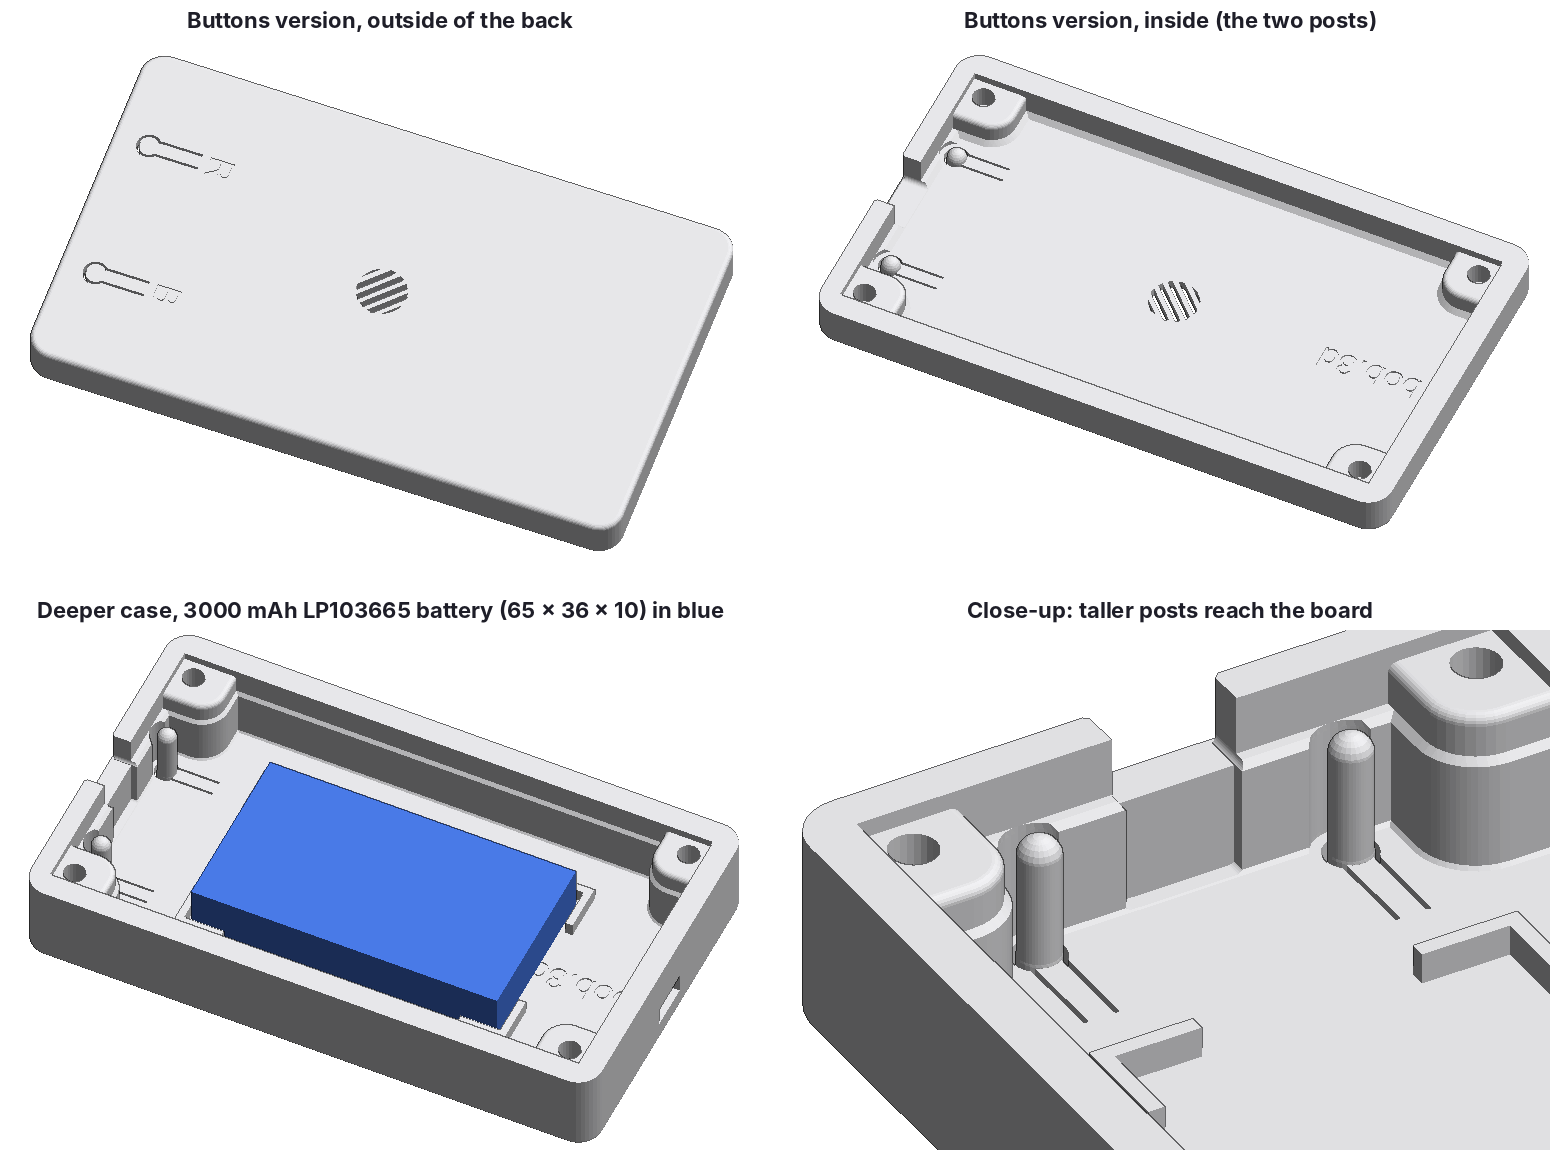
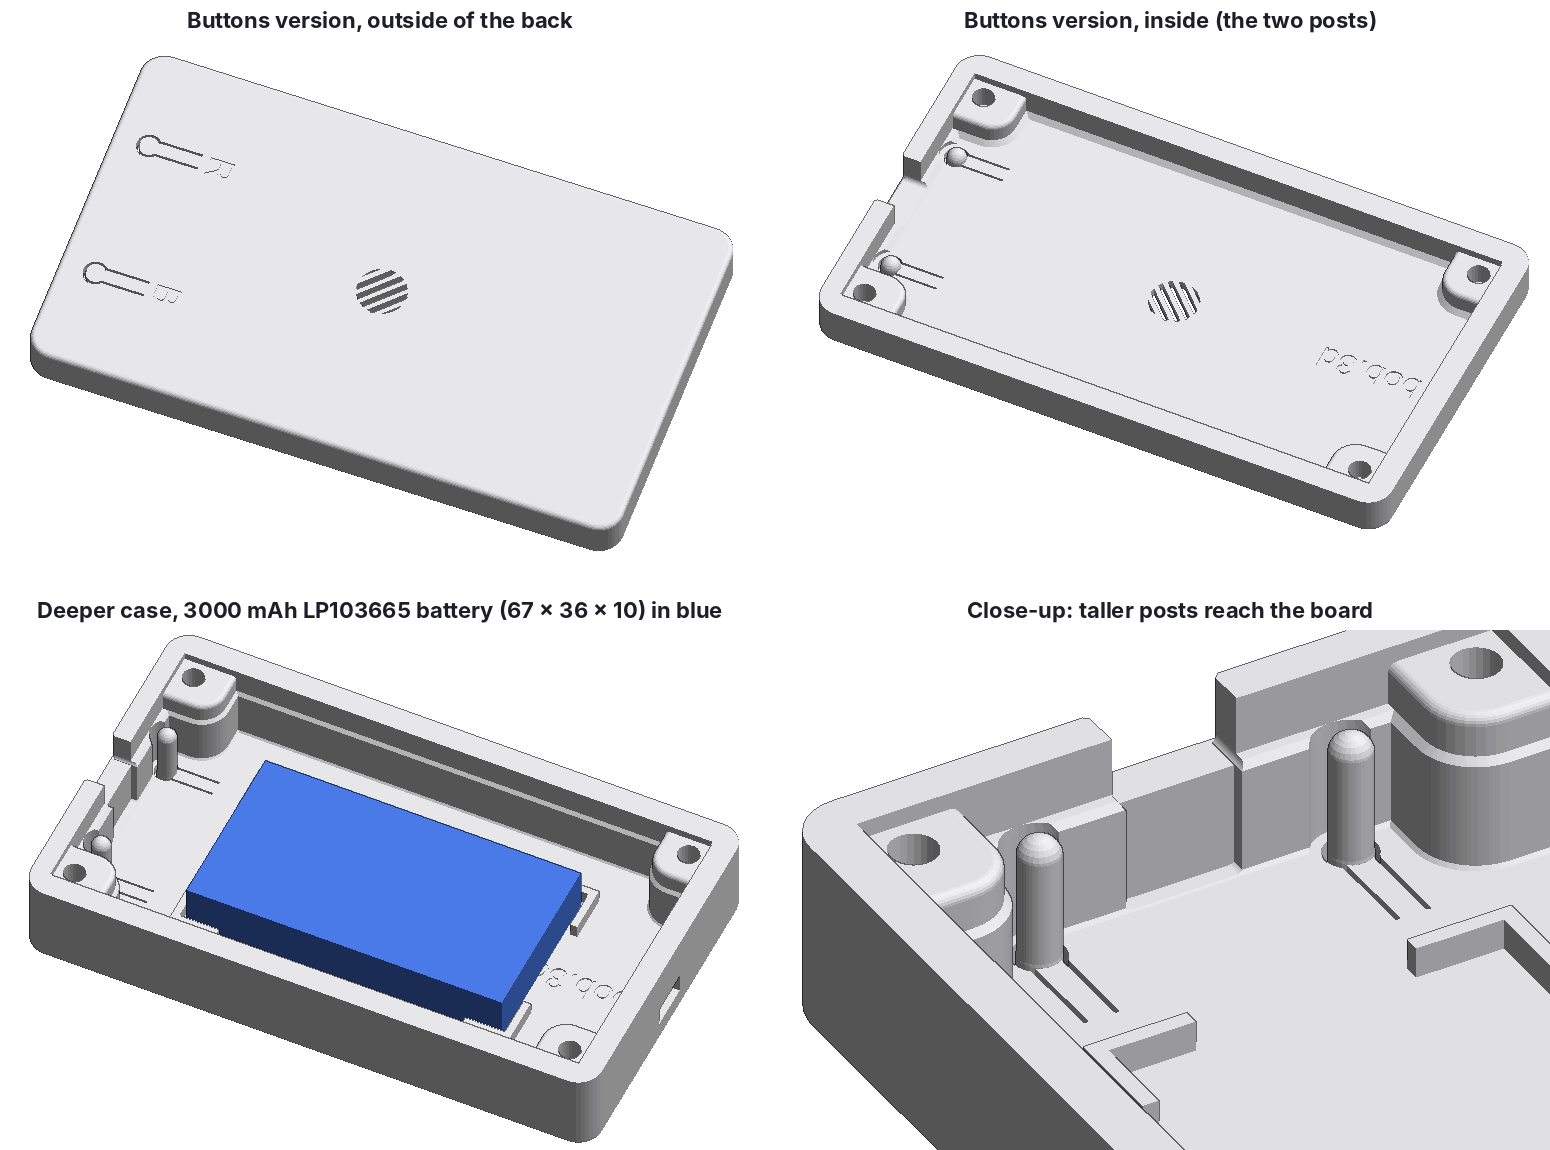
Battery ordered: LP103665 details, polarity check steps, case guides for 67 mm length
Claude-Session: https://claude.ai/code/session_019uWkukLVfk6S6XqBL5rJhB

diff --git a/design/BATTERY.md b/design/BATTERY.md
@@ -1,0 +1,28 @@
+# Battery (ordered Oct 6, 2026, arriving Oct 8)
+
+JLJLUP LP103665, Amazon 4-pack ($25.99): one per board (Joe's, the gift unit,
+a spare board) plus a spare battery.
+
+- 3.7 V nominal, 4.2 V full, 3.0 V empty. 3000 mAh claimed (11.1 Wh); expect
+  nearer 2500 mAh in practice, about 7 to 9 hours with the screen bright.
+- Size: 36 W x 10 H x 67 L mm per the seller's drawing (the listing text says
+  65 L; the case is sized for 67). 49 g. Lead 60 to 70 mm.
+- Built-in protection circuit (overcharge, over-discharge, short circuit).
+- Max charge and discharge 1C (3 A). Charge only between 0 and 45 C.
+- Plug: JST 1.25 mm pitch, 2-pin, housing 4.3 mm wide. Red = +, black = -.
+  The seller warns the plug orientation is NOT universal.
+
+## Board side
+The board's BAT plug sits on the back, on the bottom edge near the BOOT
+button. Seen from the back with that edge at the bottom, the silkscreen marks
+are "-" on the left and "+" on the right. The board's other plugs are also
+1.25 mm (its bundled cable is "1.25mm to DuPont"), so the battery plug should
+fit, but confirm with a ruler photo.
+
+## Before the first plug-in (do it with Joe)
+1. Photo of the BAT plug next to a ruler, marks visible.
+2. Hold the battery plug next to the board socket the way it would go in.
+   The red wire must line up with the board's "+" mark.
+3. If it's reversed, do not force or plug it in. The two crimp pins can be
+   swapped in the housing (lift the small tab, slide the pin out) - walk Joe
+   through it step by step.

diff --git a/case/README.md b/case/README.md
@@ -7,7 +7,7 @@ designer); download them from MakerWorld into this folder to rebuild.
 deepen.py keeps everything at board level the same (standoffs, USB-C slot,
 lid fit) and adds a section under the board for a flat LiPo:
 
-    python3 deepen.py esp32-4inch-case-with-buttons_base.stl base_deep.stl 10 65 36   # depth, battery length, width
+    python3 deepen.py esp32-4inch-case-with-buttons_base.stl base_deep.stl 10 67 36   # depth, battery length, width
     python3 views2.py esp32-4inch-case_base.stl esp32-4inch-case_lid.stl base_deep.stl 10 case_draft1.png
 
 Draft 1 (Oct 6, 2026): 10 mm extra depth for a ~2000 mAh 10 x 34 x 50 mm
@@ -34,7 +34,7 @@ moved to a 62 x 52 pocket. Closed case about 24 mm thick. About 8 to 10 hours
 with the screen bright.
 
 Draft 3 (Oct 6): battery picked - JLJLUP LP103665, 3.7 V 3000 mAh, about
-65 x 36 x 10 mm, protection circuit, JST 1.25 mm 2-pin plug already on it
-(Amazon 4-pack, one per board plus a spare). Guides moved to a 67 x 38 pocket.
+67 x 36 x 10 mm (seller drawing; listing says 65), protection circuit, JST 1.25 mm 2-pin plug already on it
+(Amazon 4-pack, one per board plus a spare). Guides moved to a 69 x 38 pocket.
 Before first plug-in: check the red wire lands on the "+" mark beside the
 board's BAT plug (left "-", right "+" seen from the back, plug at the bottom).

diff --git a/design/DESIGN.md b/design/DESIGN.md
@@ -50,9 +50,10 @@ says go.
    - Battery lives inside the display's case, not in the stand, so the
      screen lifts off and runs anywhere (garage, patio).
    - Must last a whole football game with the screen bright. Battery: JLJLUP
-     LP103665, 3.7 V 3000 mAh (likely ~2500 real), about 65 x 36 x 10 mm,
+     LP103665, 3.7 V 3000 mAh (likely ~2500 real), about 67 x 36 x 10 mm,
      protected, JST 1.25 mm 2-pin plug (matches the board's BAT plug, to be
-     confirmed with a ruler photo). 7 to 10 hours. Closed case about 24 mm.
+     confirmed with a ruler photo). 7 to 9 hours. Ordered; full details and
+     the polarity check in design/BATTERY.md. Closed case about 24 mm.
    - Small on/off slide switch on the side edge (the board has none).
      Charges through the board's USB-C while running.
    - Case: the MakerWorld "ESP32-32E 4.0 CYD" enclosure Joe found, buttons
